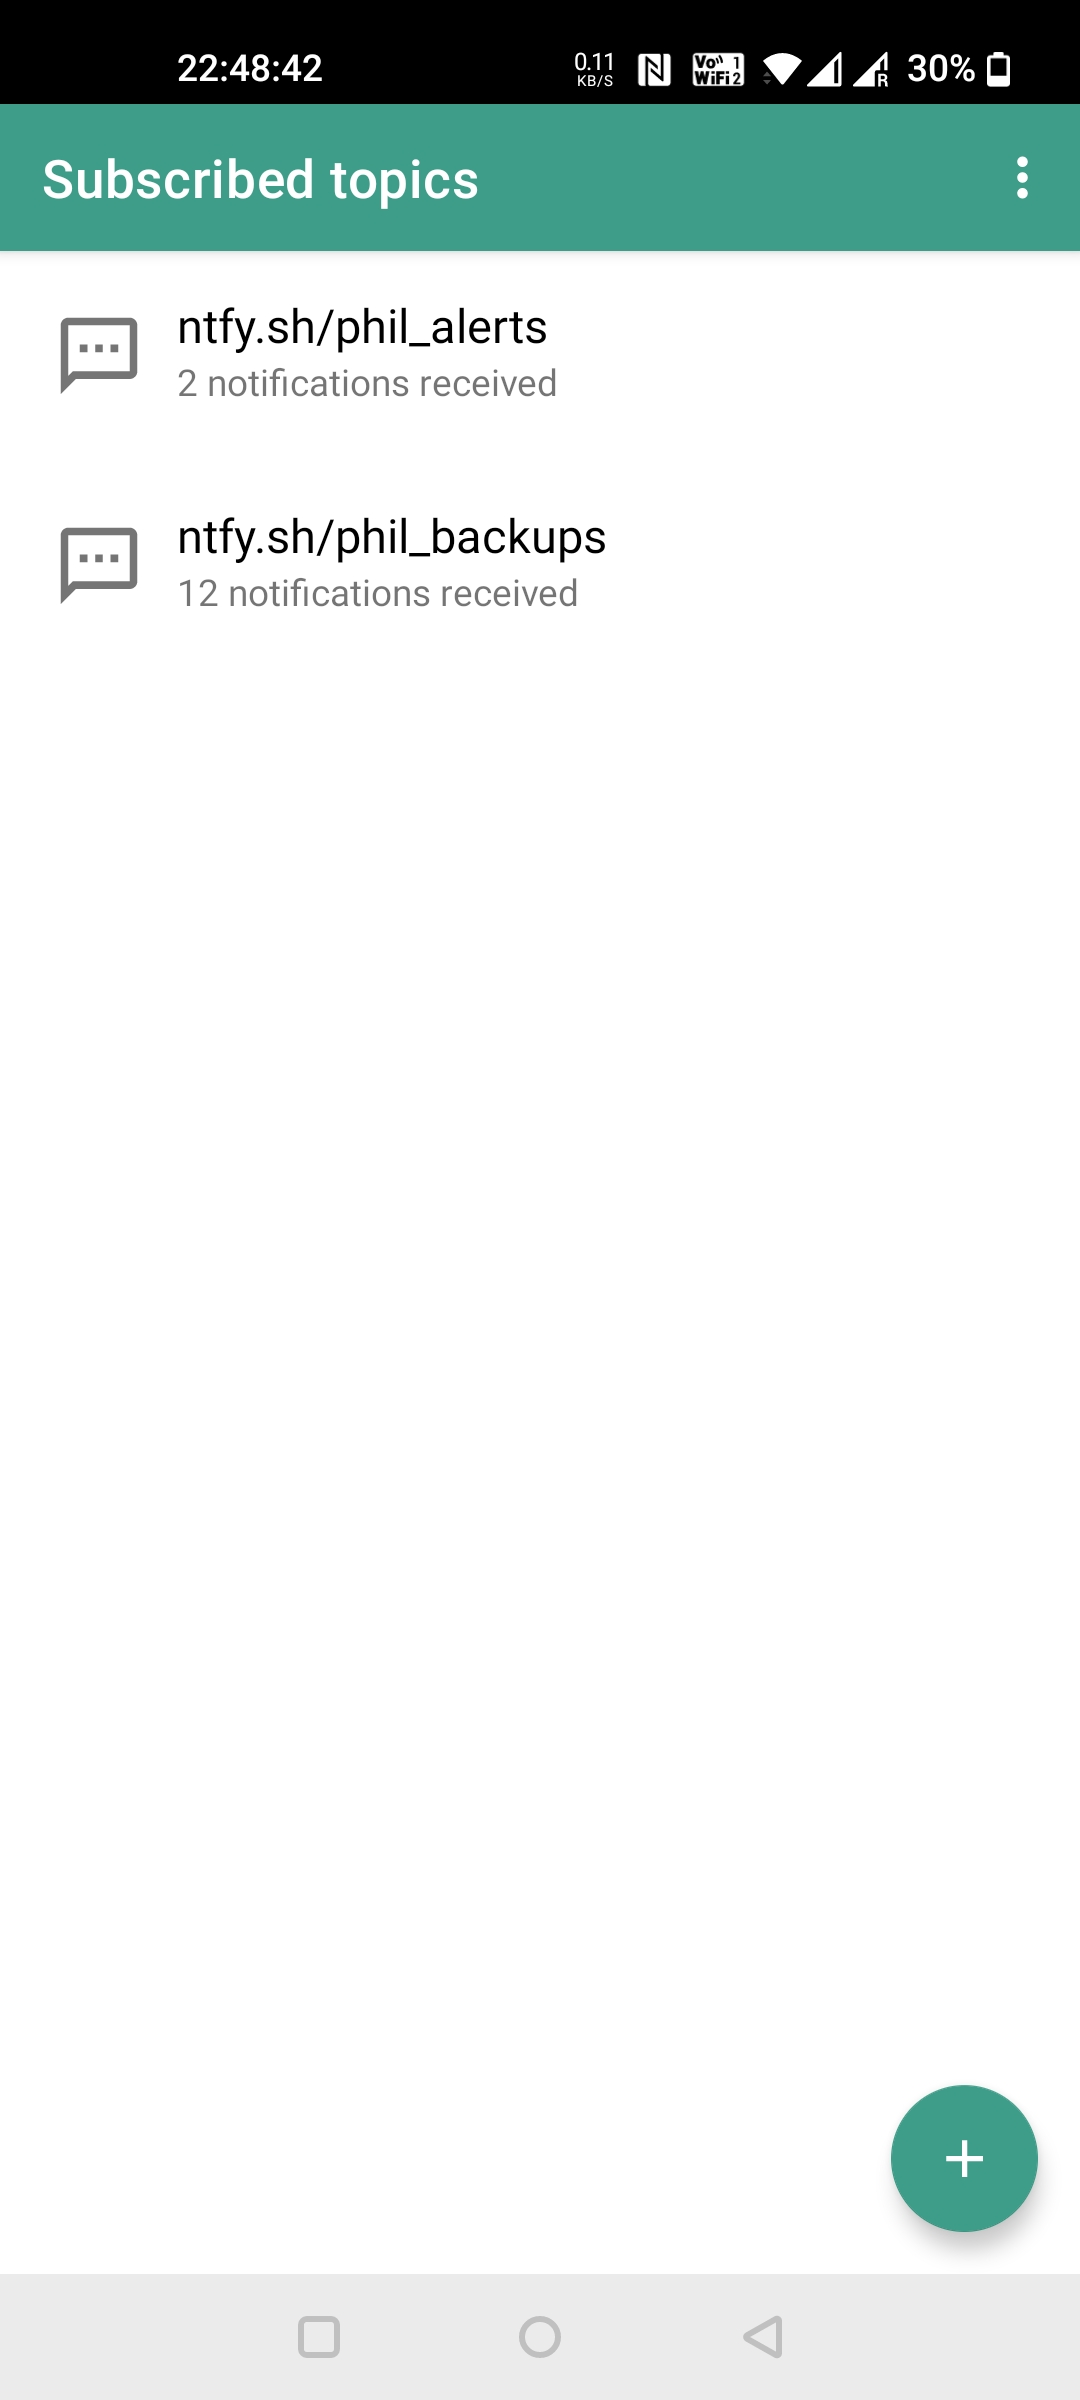
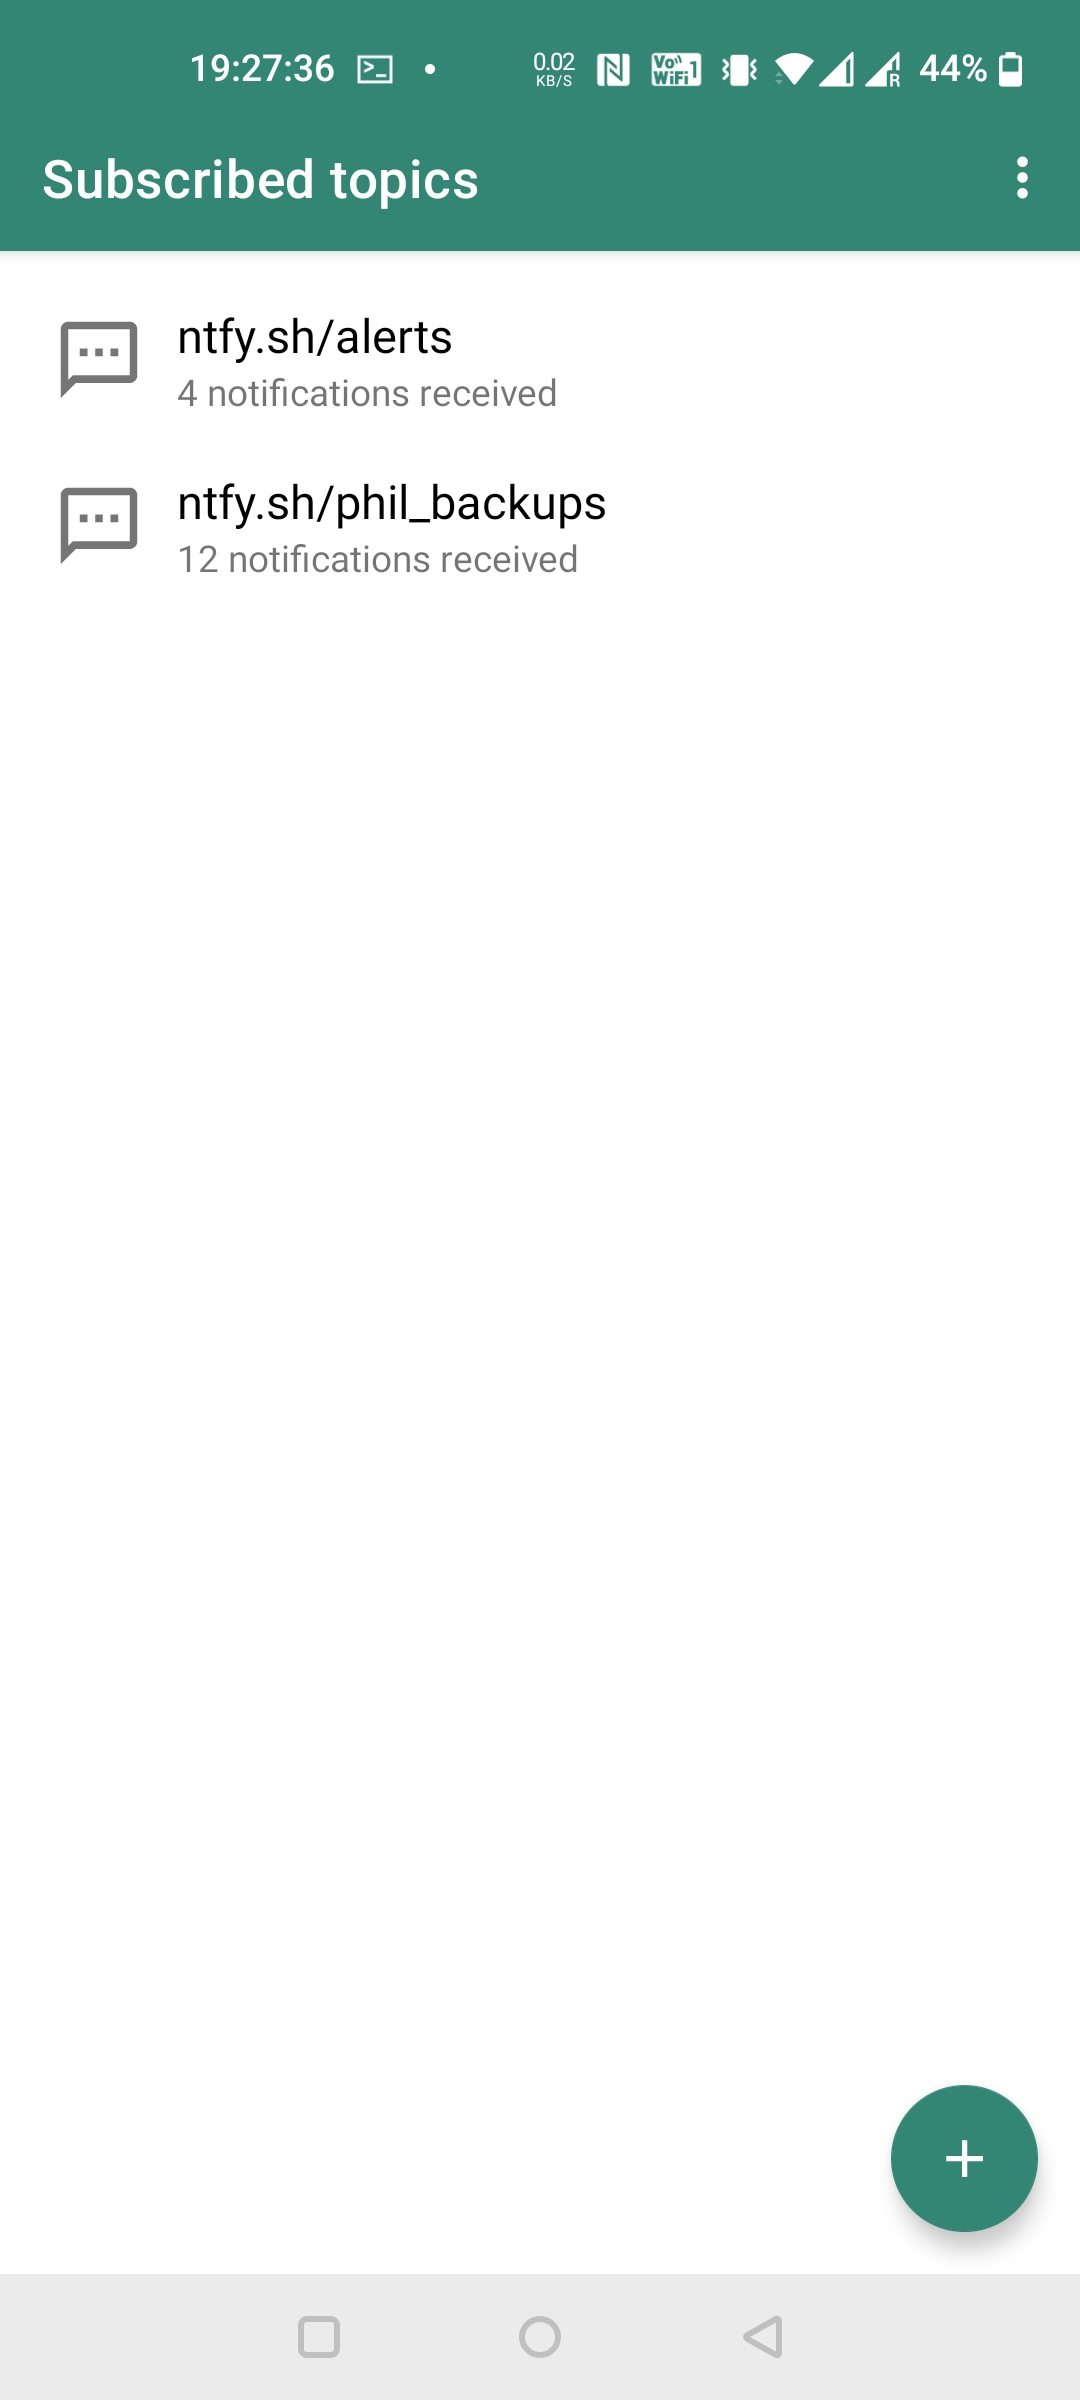
Remove clear; add force refresh all

Changed region(s): [[0.0, 0.0, 1.0, 0.0625], [0.0306, 0.125, 0.55, 0.25], [0.0611, 0.125, 0.1222, 0.1562]]

diff --git a/app/src/main/java/io/heckel/ntfy/ui/MainActivity.kt b/app/src/main/java/io/heckel/ntfy/ui/MainActivity.kt
@@ -12,6 +12,7 @@ import android.widget.Toast
 import androidx.activity.viewModels
 import androidx.appcompat.app.AppCompatActivity
 import androidx.core.content.ContextCompat
+import androidx.lifecycle.asFlow
 import androidx.lifecycle.lifecycleScope
 import androidx.recyclerview.widget.RecyclerView
 import com.google.firebase.messaging.FirebaseMessaging
@@ -22,6 +23,7 @@ import io.heckel.ntfy.data.Subscription
 import io.heckel.ntfy.data.topicShortUrl
 import io.heckel.ntfy.msg.ApiService
 import kotlinx.coroutines.Dispatchers
+import kotlinx.coroutines.flow.collect
 import kotlinx.coroutines.launch
 import java.util.*
 import kotlin.random.Random
@@ -83,6 +85,10 @@ class MainActivity : AppCompatActivity(), ActionMode.Callback {
 
     override fun onOptionsItemSelected(item: MenuItem): Boolean {
         return when (item.itemId) {
+            R.id.main_menu_refresh -> {
+                refreshAllSubscriptions()
+                true
+            }
             R.id.main_menu_source -> {
                 startActivity(Intent(Intent.ACTION_VIEW, Uri.parse(getString(R.string.main_menu_source_url))))
                 true
@@ -149,6 +155,24 @@ class MainActivity : AppCompatActivity(), ActionMode.Callback {
     private fun onSubscriptionItemLongClick(subscription: Subscription) {
         if (actionMode == null) {
             beginActionMode(subscription)
+        }
+    }
+
+    private fun refreshAllSubscriptions()  {
+        lifecycleScope.launch(Dispatchers.IO) {
+            val successFn = { notifications: List<Notification> ->
+                lifecycleScope.launch(Dispatchers.IO) {
+                    notifications.forEach {
+                        repository.addNotification(it)
+                    }
+                }
+                Unit
+            }
+            repository.getAllSubscriptions().asFlow().collect { subscriptions ->
+                subscriptions.forEach { subscription ->
+                    api.poll(subscription.id, subscription.baseUrl, subscription.topic, successFn, { _ -> })
+                }
+            }
         }
     }
 

diff --git a/app/src/main/java/io/heckel/ntfy/ui/DetailActivity.kt b/app/src/main/java/io/heckel/ntfy/ui/DetailActivity.kt
@@ -1,6 +1,5 @@
 package io.heckel.ntfy.ui
 
-import android.R.attr.label
 import android.app.AlertDialog
 import android.content.ClipData
 import android.content.ClipboardManager
@@ -29,7 +28,6 @@ import io.heckel.ntfy.msg.ApiService
 import kotlinx.coroutines.Dispatchers
 import kotlinx.coroutines.launch
 import java.util.*
-
 
 class DetailActivity : AppCompatActivity(), ActionMode.Callback {
     private val viewModel by viewModels<DetailViewModel> {
@@ -115,10 +113,6 @@ class DetailActivity : AppCompatActivity(), ActionMode.Callback {
                 onRefreshClick()
                 true
             }
-            R.id.detail_menu_clear -> {
-                onClearClick()
-                true
-            }
             R.id.detail_menu_unsubscribe -> {
                 onDeleteClick()
                 true
@@ -164,18 +158,6 @@ class DetailActivity : AppCompatActivity(), ActionMode.Callback {
                 .show()
         }
         api.poll(subscriptionId, subscriptionBaseUrl, subscriptionTopic, successFn, failureFn)
-    }
-
-    private fun onClearClick() {
-        val builder = AlertDialog.Builder(this)
-        builder
-            .setMessage(R.string.detail_clear_dialog_message)
-            .setPositiveButton(R.string.detail_clear_dialog_permanently_delete) { _, _ ->
-                viewModel.removeAll(subscriptionId)
-            }
-            .setNegativeButton(R.string.detail_clear_dialog_cancel) { _, _ -> /* Do nothing */ }
-            .create()
-            .show()
     }
 
     private fun onDeleteClick() {

diff --git a/app/src/main/java/io/heckel/ntfy/data/Database.kt b/app/src/main/java/io/heckel/ntfy/data/Database.kt
@@ -70,7 +70,7 @@ interface NotificationDao {
     @Query("SELECT id FROM notification WHERE subscriptionId = :subscriptionId")
     fun listIds(subscriptionId: Long): List<String>
 
-    @Insert
+    @Insert(onConflict = OnConflictStrategy.IGNORE)
     fun add(notification: Notification)
 
     @Query("DELETE FROM notification WHERE id = :notificationId")
